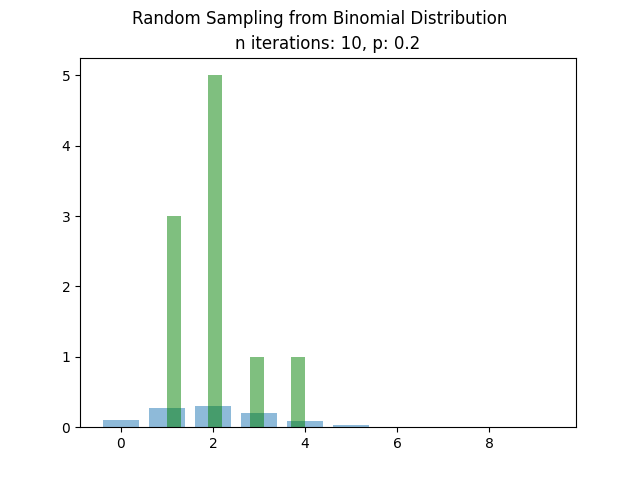
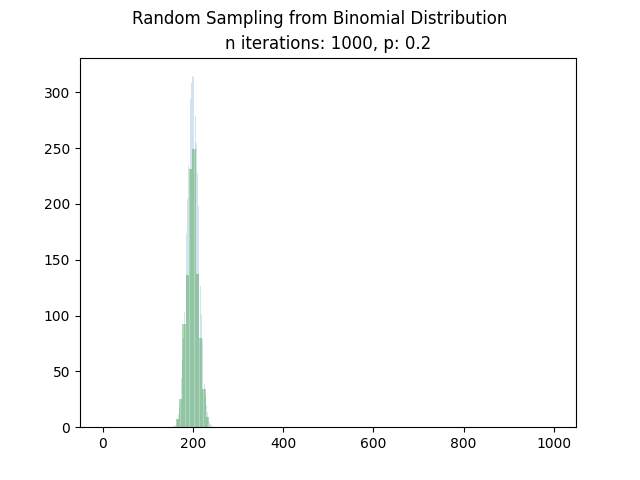
corrected normalization in plots

diff --git a/RandomSampling/sampling_random.py b/RandomSampling/sampling_random.py
@@ -38,20 +38,23 @@ iterations = 1000
 # EXAMPLE OF SAMPLING FROM BINOMIAL DISTRIBUTION
 binomial_seq = np.zeros(iterations)
 n = iterations
-p = .2
+p = .2 # parameter for the Binomial distribution
 
+# generate a sequence of random values from the Binomial distribution
 for i in range(iterations):
     binomial_seq[i]=BinomialGen1(n, p)
+
+# plot the generated values and compare it to the "real" Binomial distribution
 fig, ax = plt.subplots(1, 1)
 values = np.arange(iterations)
 pmf = st.binom(n, p).pmf(values)
-ax.bar(values, pmf, alpha=0.5)
+ax.bar(values, pmf*iterations*10, alpha=0.2)
 
    
-plt.hist(binomial_seq, color='g',alpha=0.5)
+plt.hist(binomial_seq, color='g',alpha=0.3)
 plt.suptitle('Random Sampling from Binomial Distribution')
 plt.title(f'n iterations: {iterations}, p: {p}')
-plt.savefig('binomial_dist.png')
+plt.savefig('RandomSampling/binomial_dist.png')
 print("Salvato plot binomial_dist.png\n")
 
 
@@ -59,19 +62,20 @@ print("Salvato plot binomial_dist.png\n")
 
 # EXAMPLE OF SAMPLING FROM POISSON DISTRIBUTION
 
+
 poisson_seq = np.zeros(iterations)
-mu = .9
+mu = .9 # parameter for the Poisson distribution
+# generate a sequence of random values from the Poisson distribution
 for i in range(iterations):
     poisson_seq[i]=PoissonGen1(mu)
-
 
 fig, ax = plt.subplots(1, 1)
 values = np.arange(20)
 pmf = st.poisson(mu).pmf(values)
-ax.bar(values, pmf, alpha=0.5)
+ax.bar(values, pmf*iterations, alpha=0.3)
  
-plt.hist(poisson_seq, color='g', alpha=0.5)
+ax.hist(poisson_seq, color='g', alpha=0.3)
 plt.suptitle('Random Sampling from Poisson Distribution')
 plt.title(f'n iterations: {iterations}, mu: {mu}')
-plt.savefig('poisson_dist.png')
+fig.savefig('RandomSampling/poisson_dist.png')
 print("Salvato plot poisson_dist.png\n")
